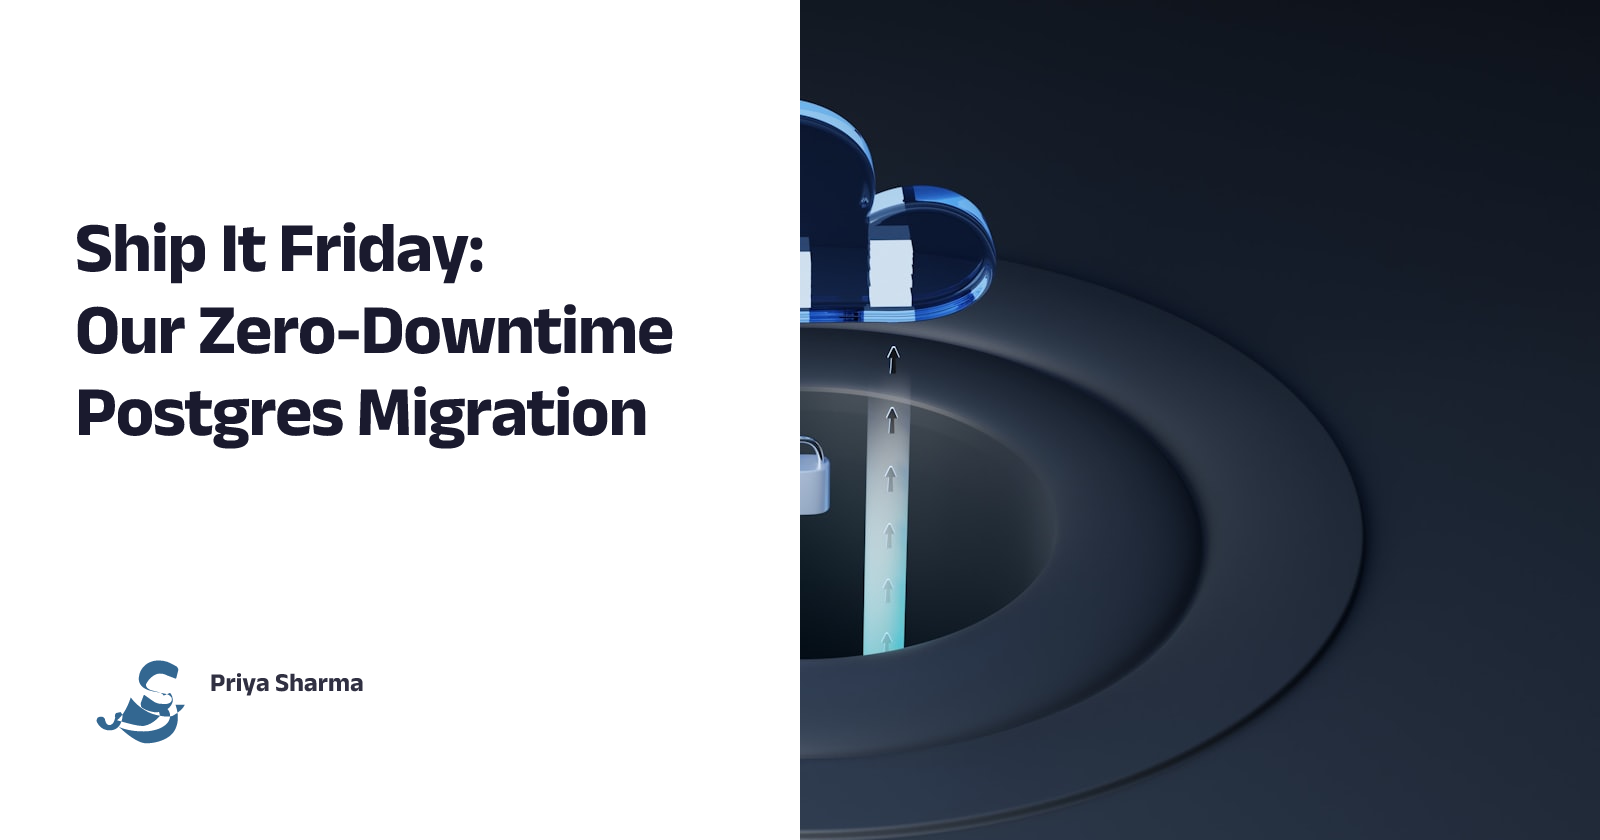
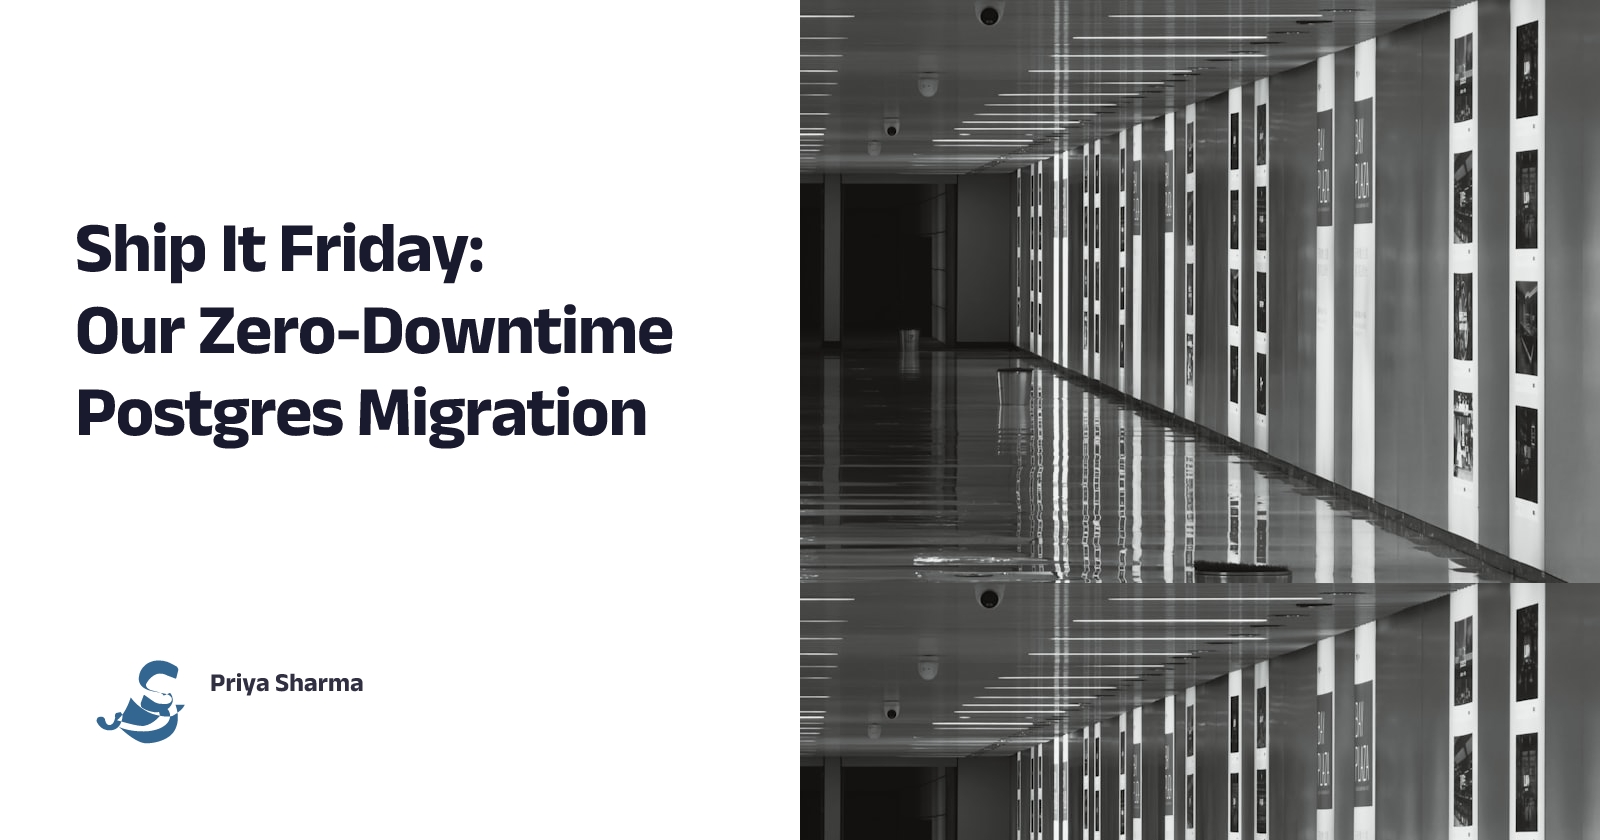
docs: use a better-composed showcase cover image
The previous showcase photo (a 3D cloud render) had its subject run off the
right edge, so it looked cropped in half once center-fit into the panel. Swap
in a clean data-centre corridor that crops cleanly, and update the documented
keyword to "server racks" to match what generated it.

diff --git a/README.md b/README.md
@@ -120,7 +120,7 @@ Point your agent at the skill and just describe the post. For example:
 > production Postgres database to a new cluster with zero downtime using logical
 > replication, a shadow table, and a final cutover behind a feature flag…"*
 
-The skill inferred `postgres` (icon) and `data center` (photo keyword) from the
+The skill inferred `postgres` (icon) and `server racks` (photo keyword) from the
 post, kept the given author, wrapped the title over three lines, and ran:
 
 ```bash
@@ -128,7 +128,7 @@ python3 .agents/skills/coverview-cover/scripts/generate_cover.py \
   --style .agents/skills/coverview-cover/assets/style-blog.json \
   --title $'Ship It Friday:\nOur Zero-Downtime\nPostgres Migration' \
   --icon postgres \
-  --keyword "data center" \
+  --keyword "server racks" \
   --author "Priya Sharma" \
   --out cover.png
 ```
